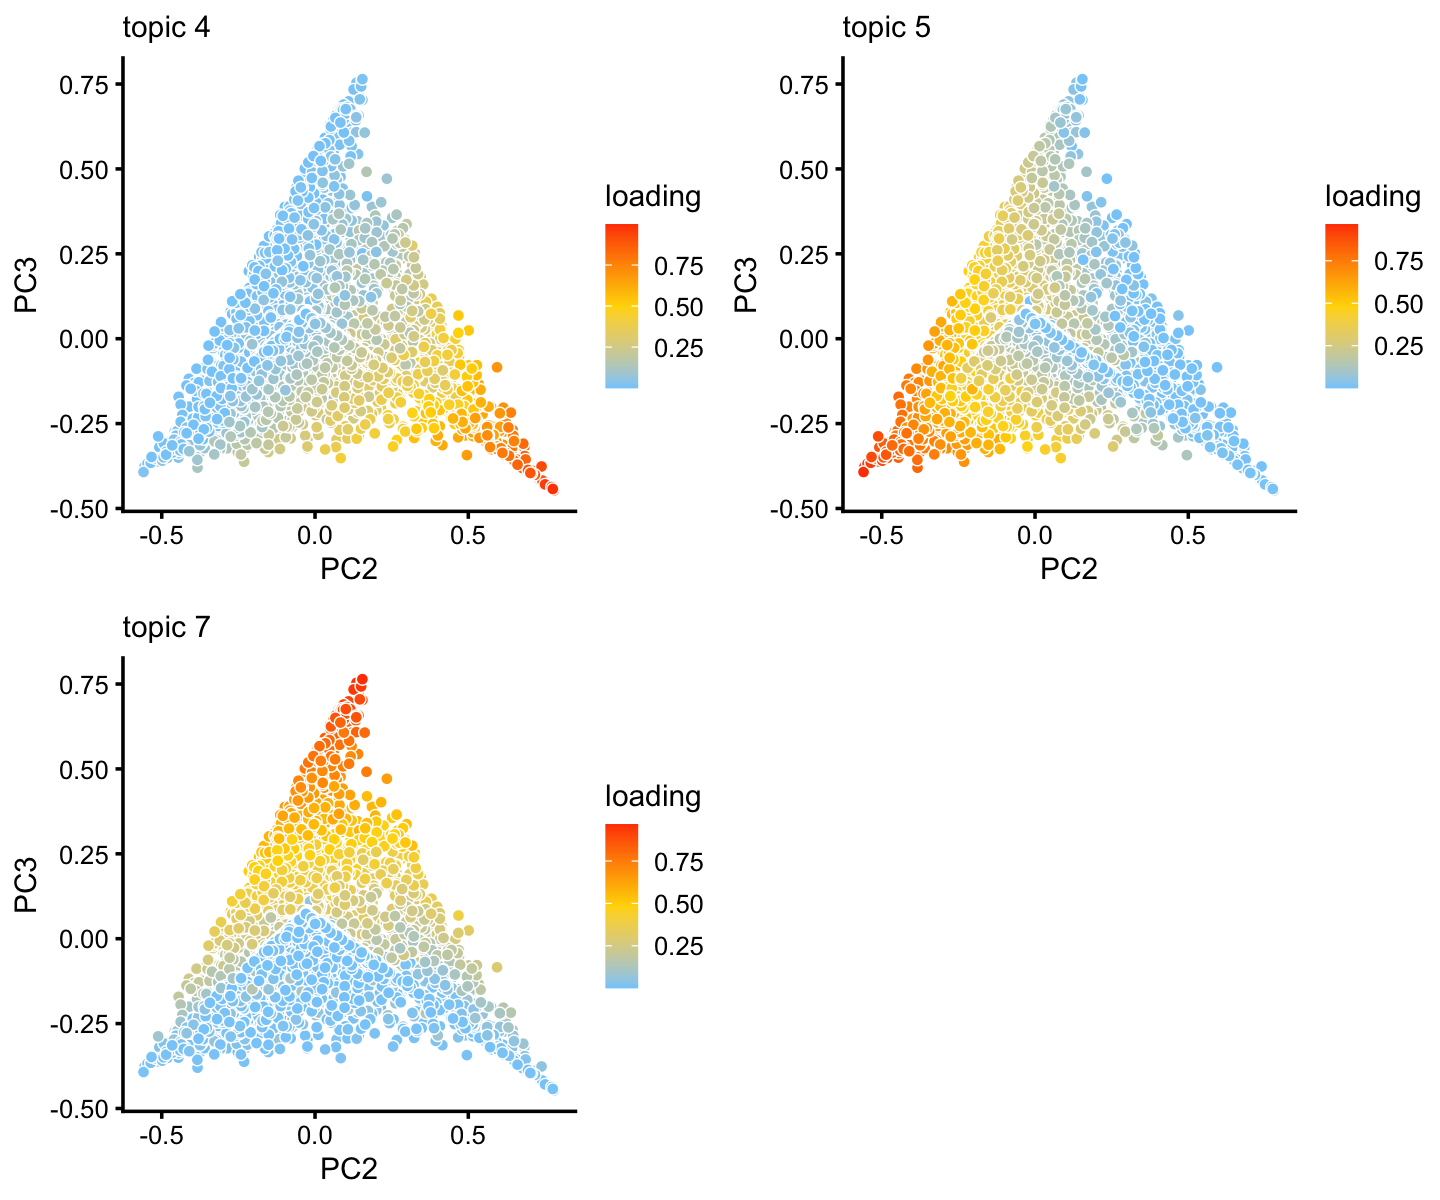
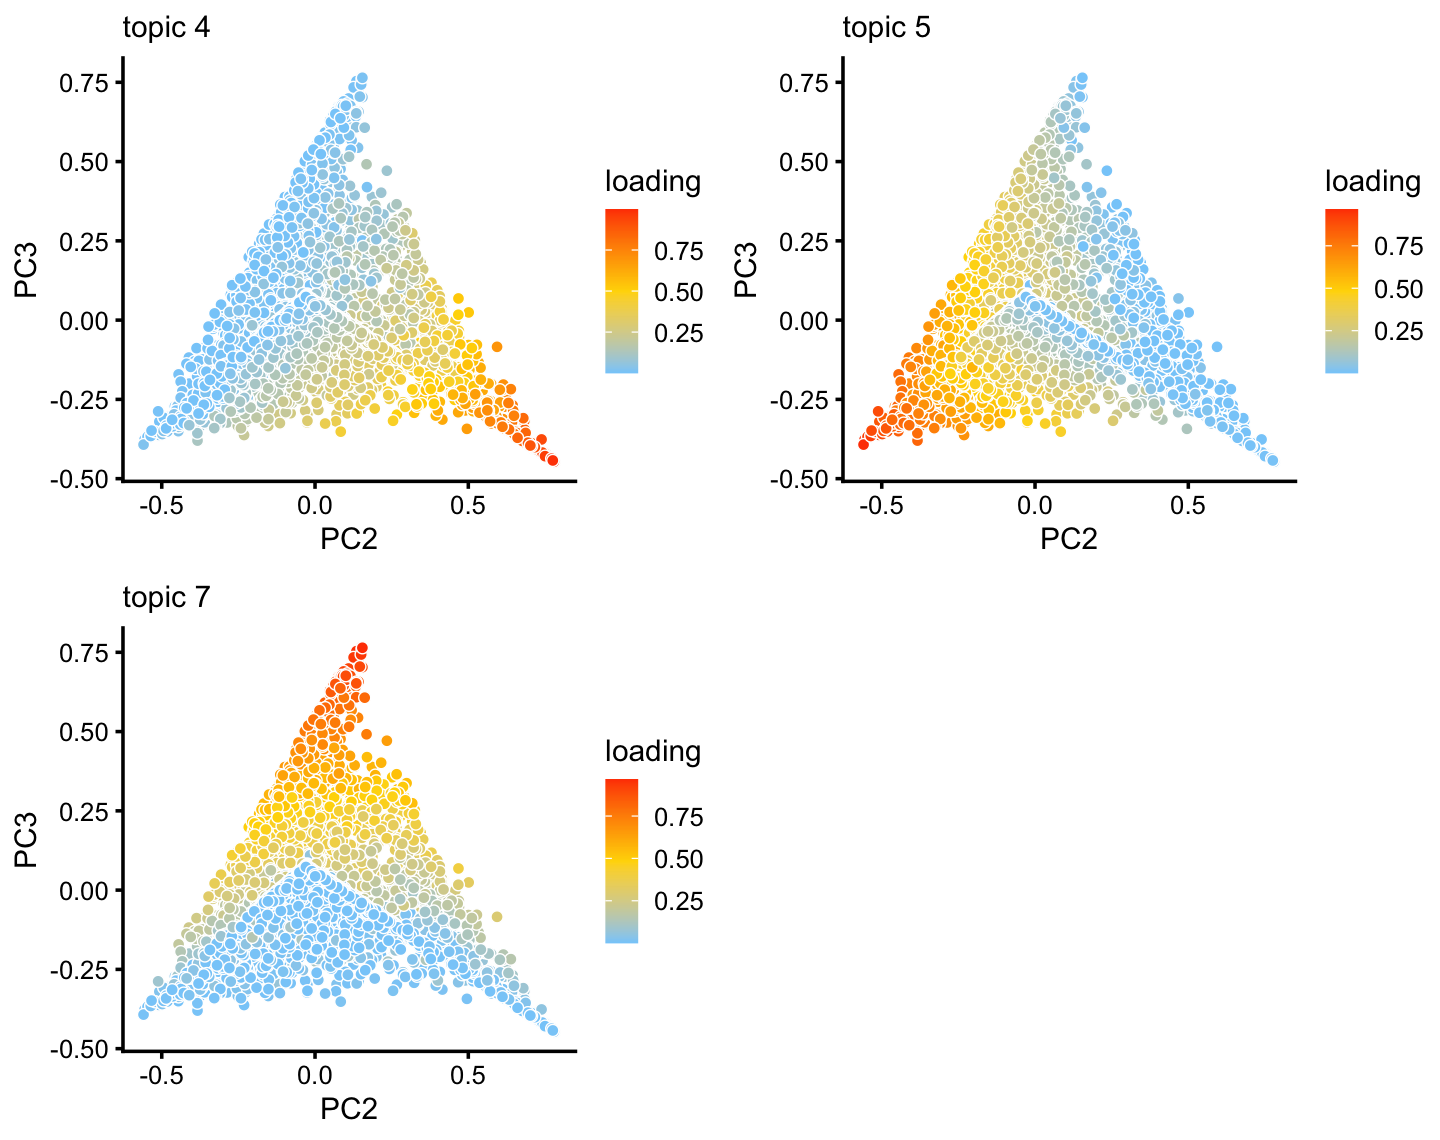
A couple refinements to clusters_droplet analysis.

diff --git a/docs/clusters_droplet.html b/docs/clusters_droplet.html
@@ -414,16 +414,16 @@ This reproducible <a href="http://rmarkdown.rstudio.com">R Markdown</a> analysis
 <div class="panel panel-default">
 <div class="panel-heading">
 <p class="panel-title">
-<a data-toggle="collapse" data-parent="#workflowr-checks" href="#strongRepositoryversionstrongahrefhttpsgithubcomstephenslabsinglecelltopicstree605b540a24de563c843aac3d235d28ec1d14eb49targetblank605b540a"> <span class="glyphicon glyphicon-ok text-success" aria-hidden="true"></span> <strong>Repository version:</strong> <a href="https://github.com/stephenslab/single-cell-topics/tree/605b540a24de563c843aac3d235d28ec1d14eb49" target="_blank">605b540</a> </a>
+<a data-toggle="collapse" data-parent="#workflowr-checks" href="#strongRepositoryversionstrongahrefhttpsgithubcomstephenslabsinglecelltopicstree2a5e8da3743062909f426eaf226b1ca00ac0d975targetblank2a5e8daa"> <span class="glyphicon glyphicon-ok text-success" aria-hidden="true"></span> <strong>Repository version:</strong> <a href="https://github.com/stephenslab/single-cell-topics/tree/2a5e8da3743062909f426eaf226b1ca00ac0d975" target="_blank">2a5e8da</a> </a>
 </p>
 </div>
[2 lines of base64/hex data omitted]
 <div class="panel-body">
 <p>
 Great! You are using Git for version control. Tracking code development and connecting the code version to the results is critical for reproducibility.
 </p>
 <p>
-The results in this page were generated with repository version <a href="https://github.com/stephenslab/single-cell-topics/tree/605b540a24de563c843aac3d235d28ec1d14eb49" target="_blank">605b540</a>. See the <em>Past versions</em> tab to see a history of the changes made to the R Markdown and HTML files.
+The results in this page were generated with repository version <a href="https://github.com/stephenslab/single-cell-topics/tree/2a5e8da3743062909f426eaf226b1ca00ac0d975" target="_blank">2a5e8da</a>. See the <em>Past versions</em> tab to see a history of the changes made to the R Markdown and HTML files.
 </p>
 <p>
 Note that you need to be careful to ensure that all relevant files for the analysis have been committed to Git prior to generating the results (you can use <code>wflow_publish</code> or <code>wflow_git_commit</code>). workflowr only checks the R Markdown file, but you know if there are other scripts or data files that it depends on. Below is the status of the Git repository when the results were generated:
@@ -442,9 +442,6 @@ Ignored files:
     Ignored:    output/pbmc-purified/rds/
     Ignored:    output/pulseseq/fits-pulseseq.RData
     Ignored:    output/pulseseq/rds/
-
-Untracked files:
-    Untracked:  analysis/clustering-droplet.rds
 
 </code></pre>
 <p>
@@ -483,6 +480,40 @@ Message
 </tr>
 </thead>
 <tbody>
+<tr>
+<td>
+Rmd
+</td>
+<td>
+<a href="https://github.com/stephenslab/single-cell-topics/blob/2a5e8da3743062909f426eaf226b1ca00ac0d975/analysis/clusters_droplet.Rmd" target="_blank">2a5e8da</a>
+</td>
+<td>
+Peter Carbonetto
+</td>
+<td>
+2020-09-21
+</td>
+<td>
+workflowr::wflow_publish(“clusters_droplet.Rmd”)
+</td>
+</tr>
+<tr>
+<td>
+html
+</td>
+<td>
+<a href="https://rawcdn.githack.com/stephenslab/single-cell-topics/0a8b5712281df02f14f686e1b9556794094d97f7/docs/clusters_droplet.html" target="_blank">0a8b571</a>
+</td>
+<td>
+Peter Carbonetto
+</td>
+<td>
+2020-09-21
+</td>
+<td>
+Added PCA plots showing continuous variation in club cells.
+</td>
+</tr>
 <tr>
 <td>
 Rmd
@@ -1026,6 +1057,17 @@ Date
 <tbody>
 <tr>
 <td>
+<a href="https://github.com/stephenslab/single-cell-topics/blob/0a8b5712281df02f14f686e1b9556794094d97f7/docs/figure/clusters_droplet.Rmd/clustering-6-1.png" target="_blank">0a8b571</a>
+</td>
+<td>
+Peter Carbonetto
+</td>
+<td>
+2020-09-21
+</td>
+</tr>
+<tr>
+<td>
 <a href="https://github.com/stephenslab/single-cell-topics/blob/db6135c17587e1bb862ac005452ee934662b0c7b/docs/figure/clusters_droplet.Rmd/clustering-6-1.png" target="_blank">db6135c</a>
 </td>
 <td>
@@ -1218,12 +1260,49 @@ Peter Carbonetto
 </div>
 </div>
 <p>Based on this structure plot, and the above results, we roughly subdivide the droplet data into two: (1) the Cil, T+N and G clusters that give rise to well-separated clusters, and (2) the B, C, B+C and H subsets that contain interesting substructure but much less distinct clustering. Therefore,the cluster labels B, C, B+C and H are useful as a guide but should be taken with a grain of salt as the boundaries between these clusters are somewhat arbitrary.</p>
-<p>Note the distribution of the topics in cluster C that there is further substantial heterogeneity in these cells beyond what can be captured by hard clustering. In particular, there is additional continuous variation in gene expression primarily captured by topics 5 and 7:</p>
+<p>Note the distribution of the topics in cluster C suggests that there is further substantial heterogeneity in these cells beyond what can be captured by identifying “hard” clusters. In particular, there is additional continuous variation in gene expression primarily captured by topics 5 and 7:</p>
 <pre class="r"><code>rows &lt;- which(is.element(x,c(&quot;B&quot;,&quot;C&quot;,&quot;H&quot;,&quot;B+C&quot;)))
 fit2 &lt;- select(poisson2multinom(fit),loadings = rows)
 p15  &lt;- pca_plot(fit2,pcs = 2:3,k = c(4,5,7))
 print(p15)</code></pre>
 <p><img src="figure/clusters_droplet.Rmd/pca-plot-1.png" width="720" style="display: block; margin: auto;" /></p>
+<p>
+<button type="button" class="btn btn-default btn-xs btn-workflowr btn-workflowr-fig" data-toggle="collapse" data-target="#fig-pca-plot-1">
+Past versions of pca-plot-1.png
+</button>
+</p>
+<div id="fig-pca-plot-1" class="collapse">
+<div class="table-responsive">
+<table class="table table-condensed table-hover">
+<thead>
+<tr>
+<th>
+Version
+</th>
+<th>
+Author
+</th>
+<th>
+Date
+</th>
+</tr>
+</thead>
+<tbody>
+<tr>
+<td>
+<a href="https://github.com/stephenslab/single-cell-topics/blob/0a8b5712281df02f14f686e1b9556794094d97f7/docs/figure/clusters_droplet.Rmd/pca-plot-1.png" target="_blank">0a8b571</a>
+</td>
+<td>
+Peter Carbonetto
+</td>
+<td>
+2020-09-21
+</td>
+</tr>
+</tbody>
+</table>
+</div>
+</div>
 </div>
 <div id="save-results" class="section level2">
 <h2>Save results</h2>
